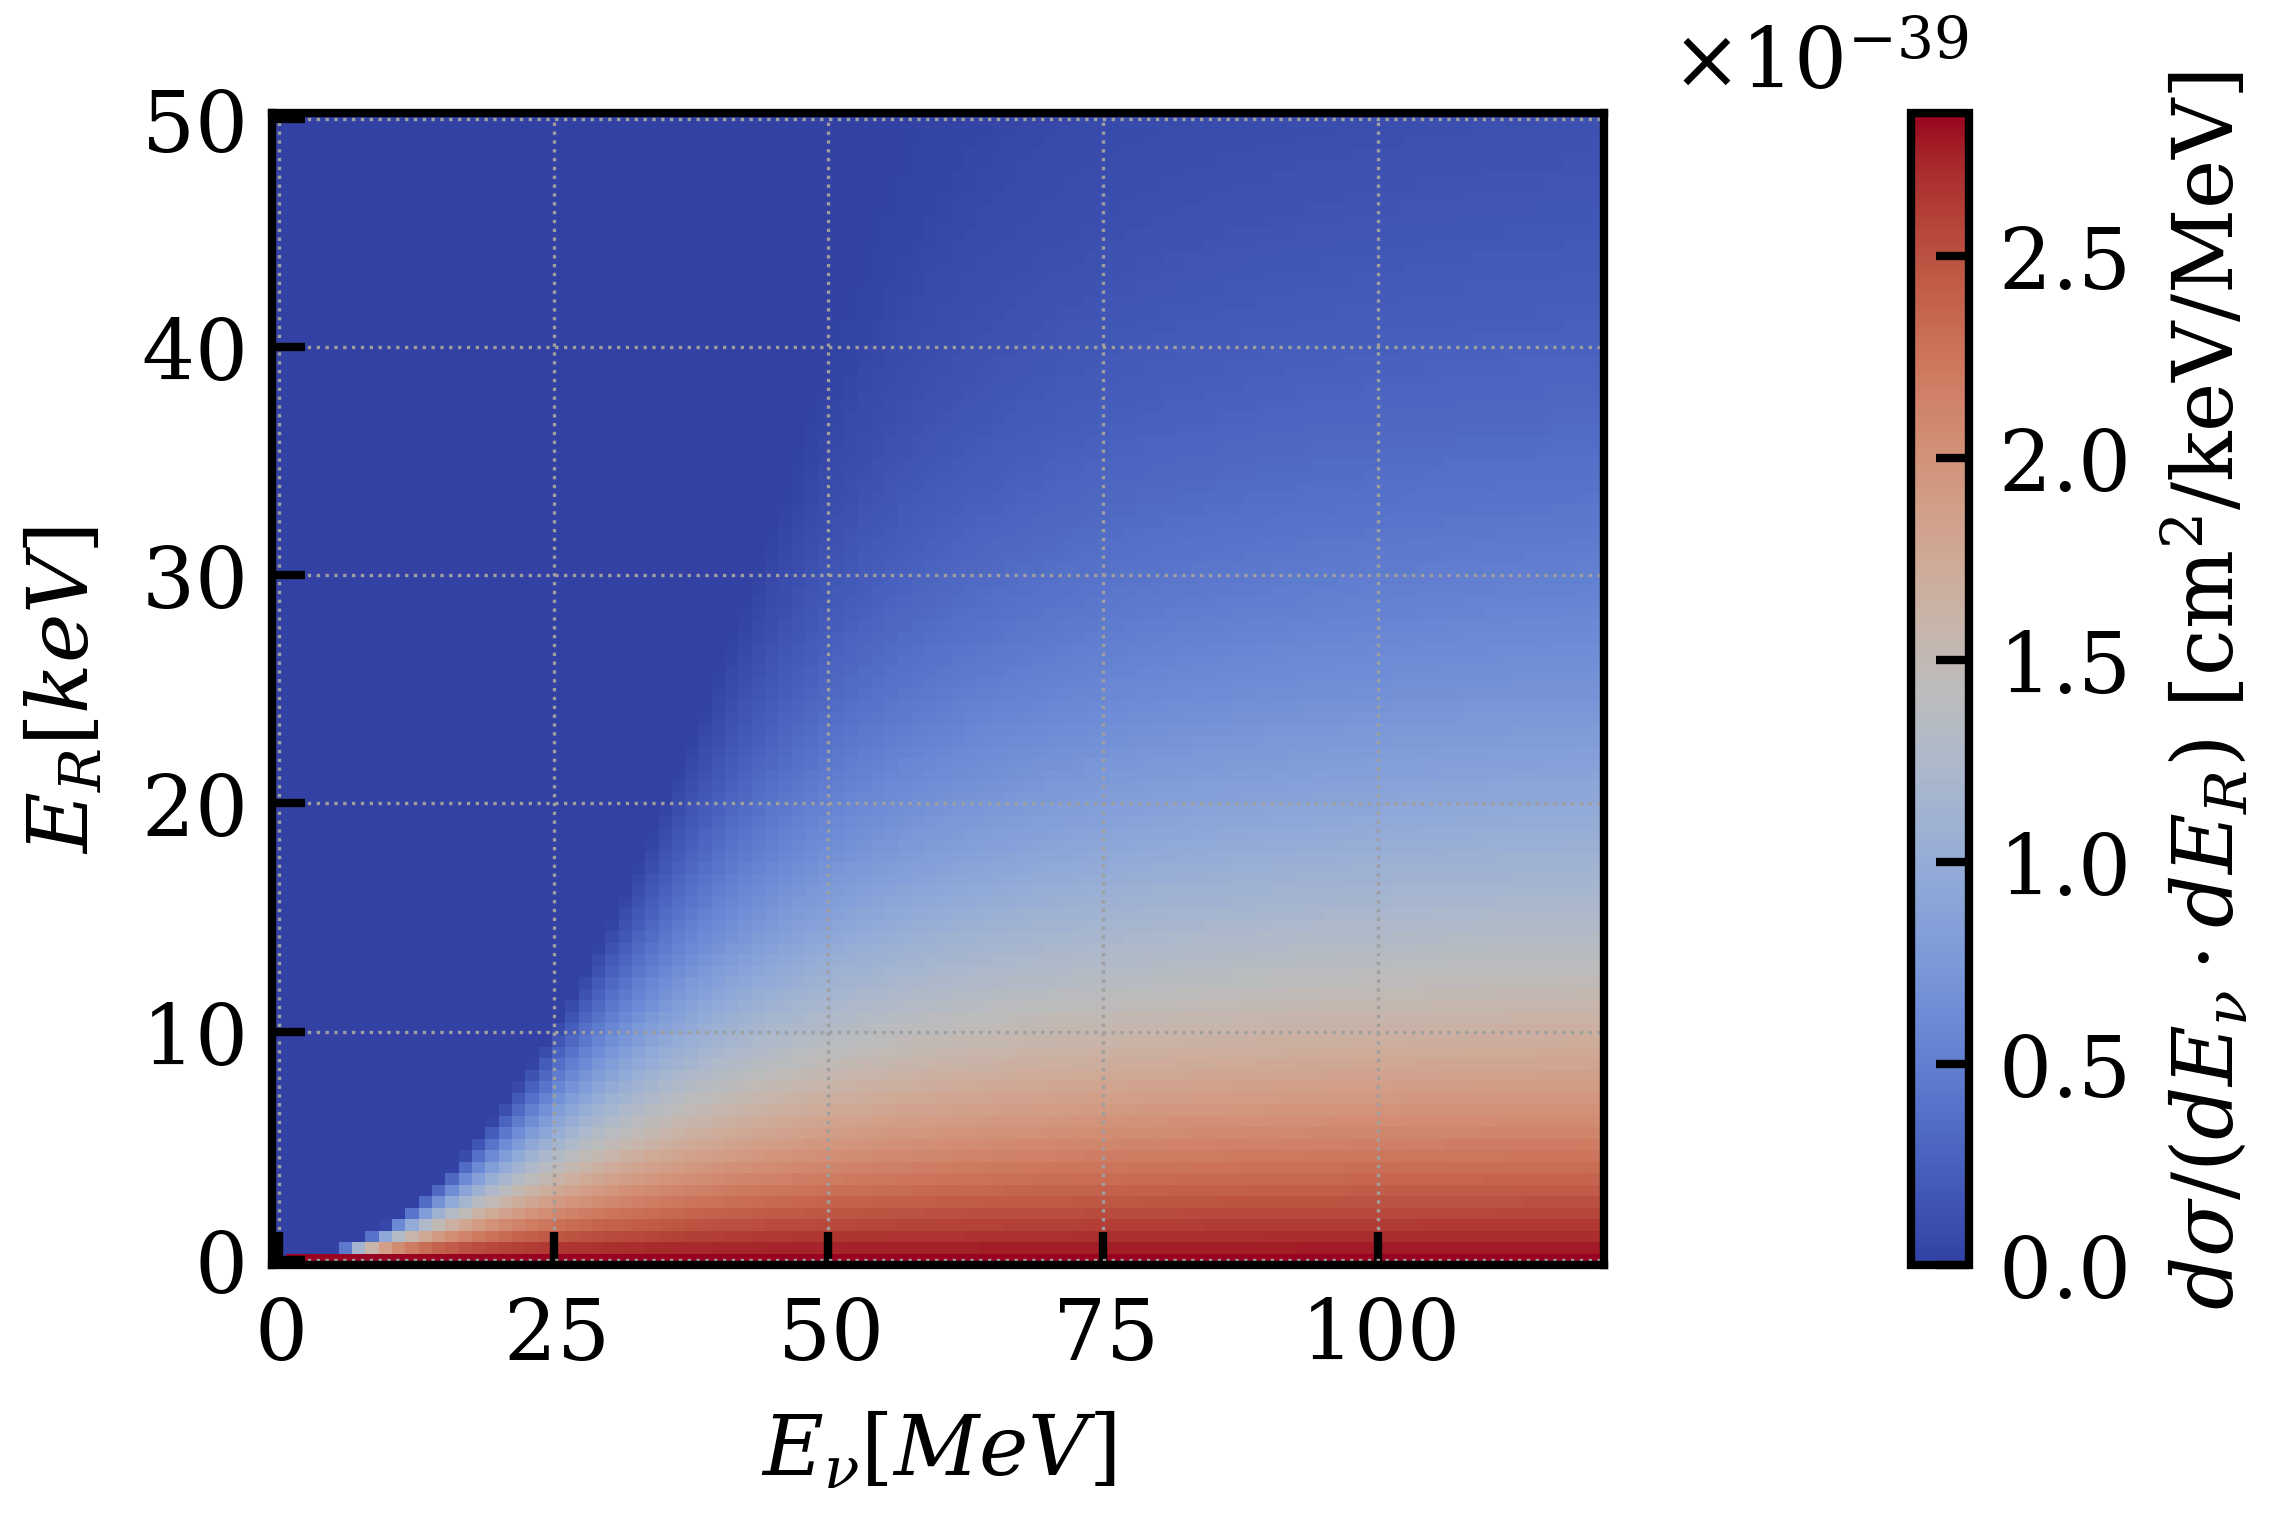
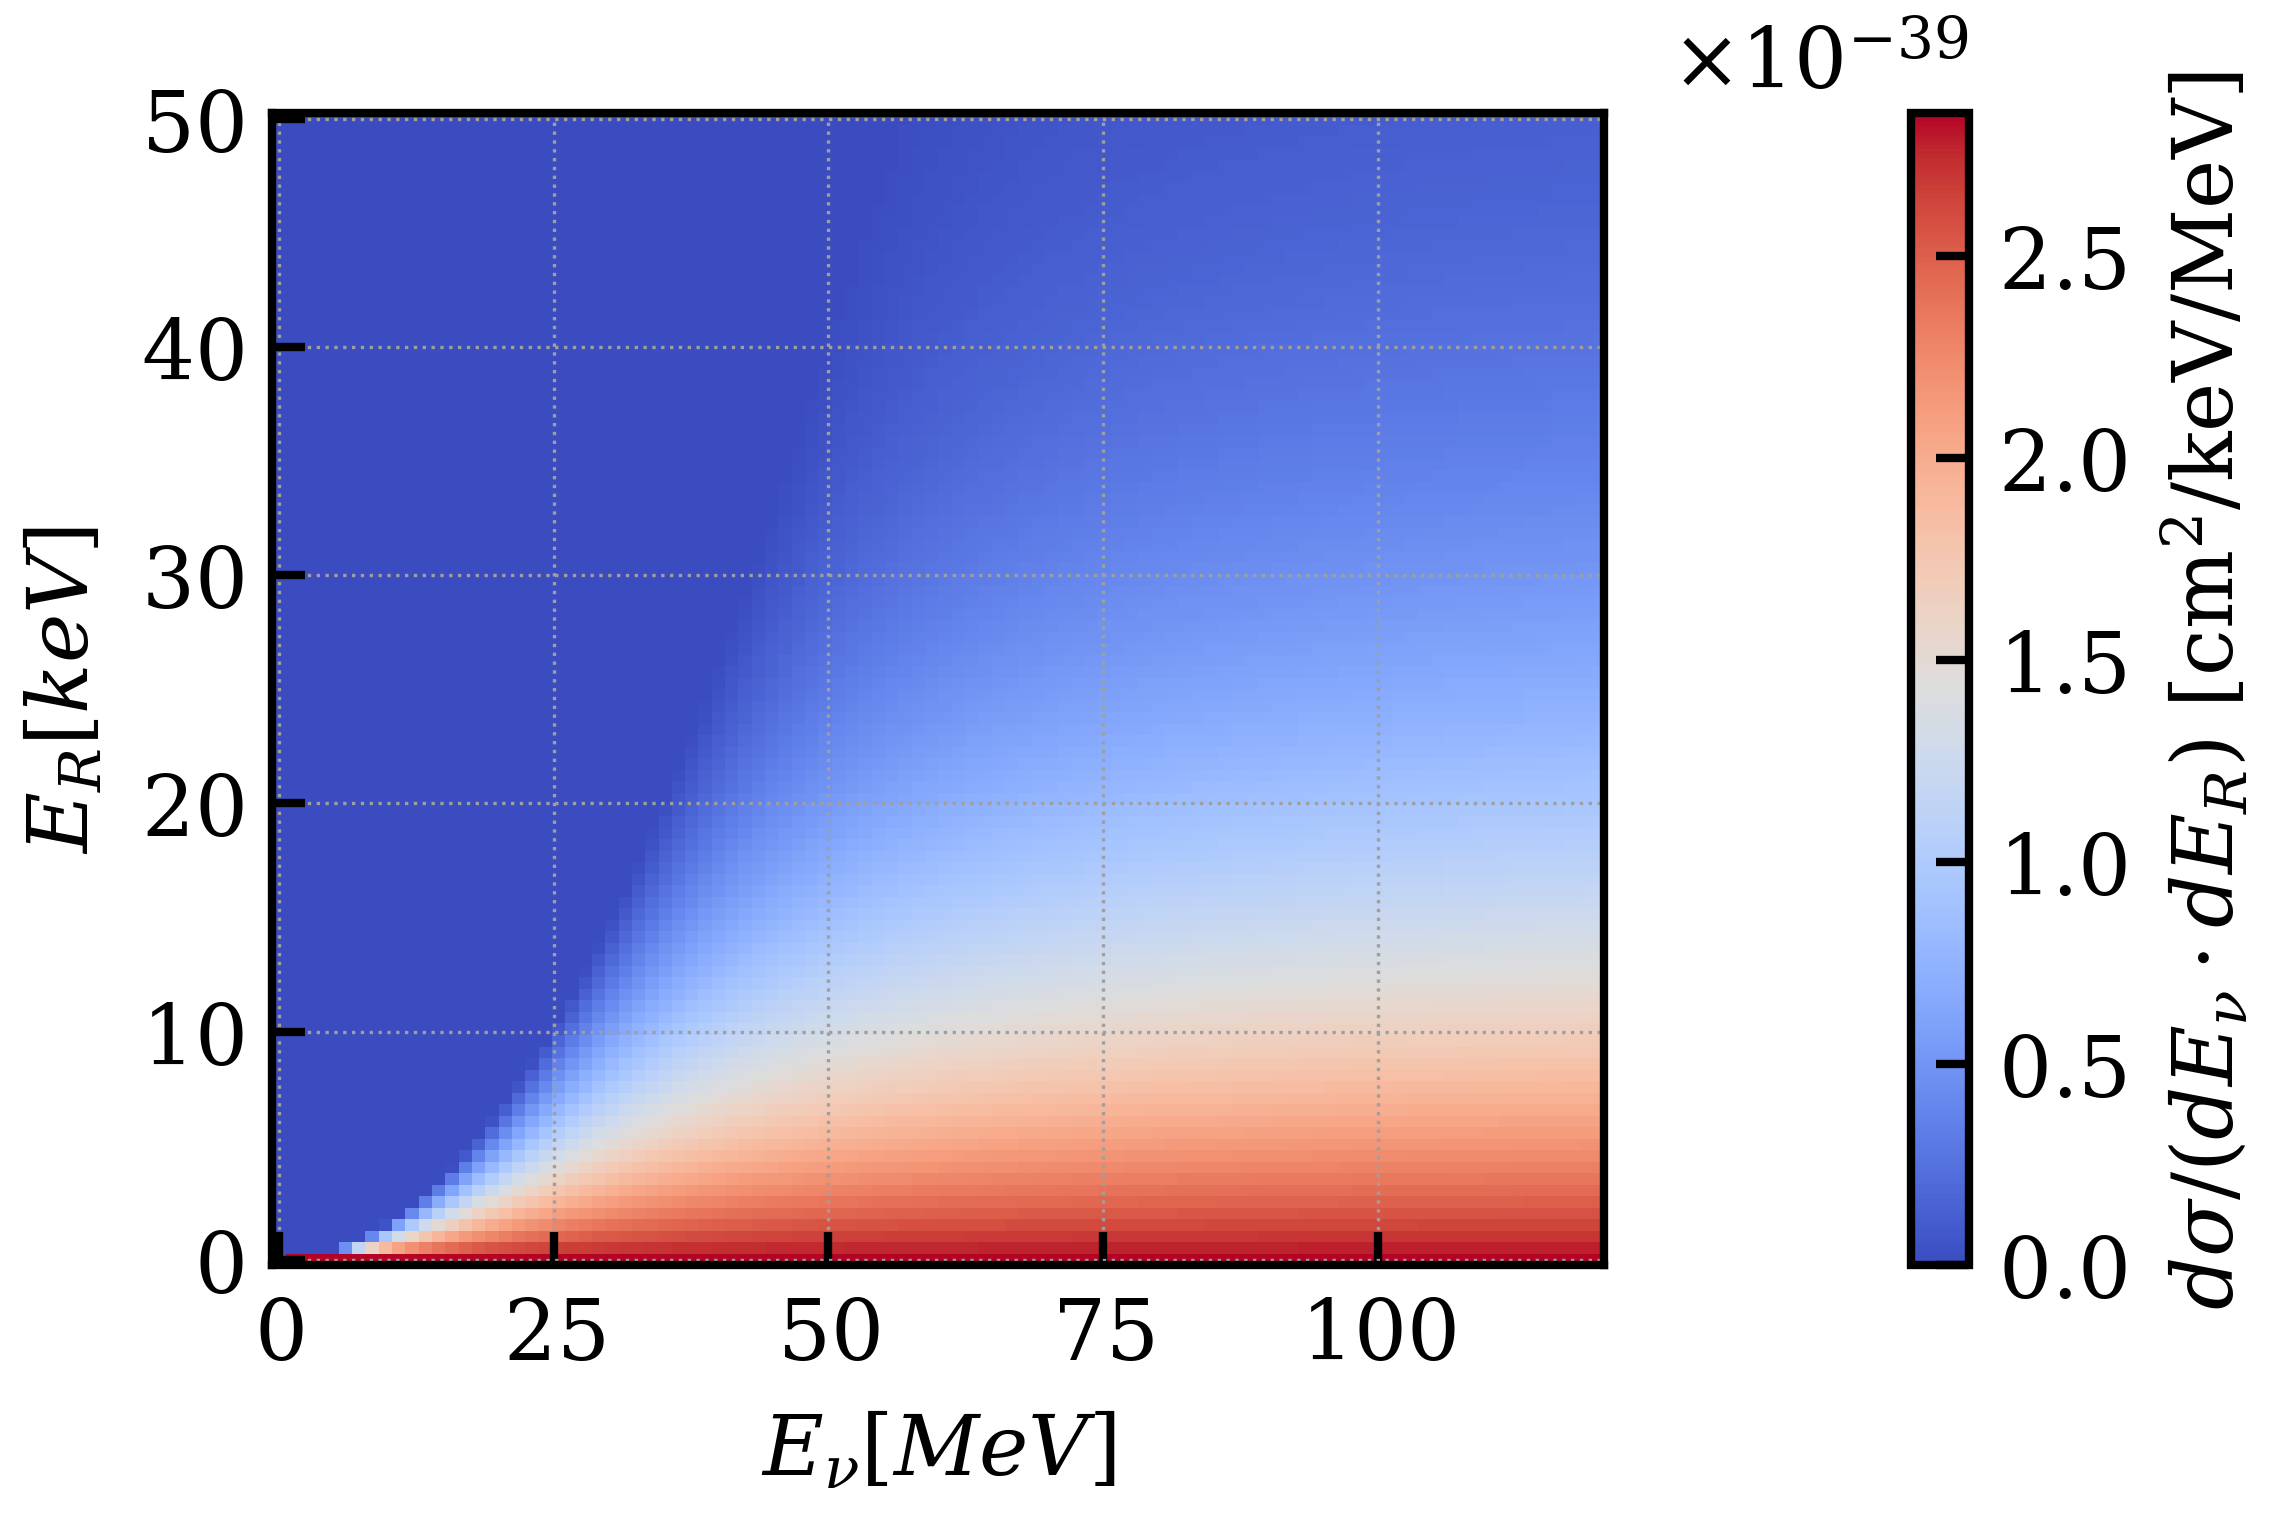
Fix to SN plots.

diff --git a/Supernova/cevns.py b/Supernova/cevns.py
@@ -3,18 +3,9 @@ import numpy as np
 import astropy.units as u
 from multimessenger.supernova.Nucleus import Target
 from multimessenger.supernova.Xenon_Atom import ATOM_TABLE
-from matplotlib.colors import ListedColormap
-from matplotlib.colors import ListedColormap, LogNorm
-
-
-# Get the colormap colors, multiply them with the factor "a", and create new colormap
-a = 0.85
-coolwarm = plt.cm.coolwarm(np.arange(plt.cm.coolwarm.N))
-coolwarm[:,0:3] *= a 
-coolwarm = ListedColormap(coolwarm)
 
 def plot_formfactor():
-    fig, ax = plt.subplots(1,1,figsize = (4,2.7))
+    fig, ax = plt.subplots(1,1,figsize = (3.8,2.6))
     
     xe_isotopes = ['Xe129','Xe131','Xe132','Xe134','Xe136',]
     for xe in xe_isotopes:
@@ -23,12 +14,13 @@ def plot_formfactor():
         formfac = singleXe.form_factor(recoil_en)
 
         
-        ax.plot(recoil_en, formfac**2, label = ATOM_TABLE[xe]['Type'])
+        ax.plot(recoil_en, formfac**2, 
+                label = f"$^{{{ATOM_TABLE[xe]['Type'][2:]}}}${ATOM_TABLE[xe]['Type'][:2]}")
     ax.set_yscale('log')
     ax.set_xlabel('E$_R$ [keV]')
     ax.set_ylabel('$F(q^2)^2$')
     ax.set_xlim(0,200)
-    ax.set_ylim(1e-7, 1)
+    ax.set_ylim(1e-6, 1)
     ax.legend()
     fig.savefig('Figures/form_factor_all_isotopes.pdf')
 
@@ -41,10 +33,10 @@ def plot_cevns_matrix():
     fig, ax = plt.subplots(1,1,figsize = (3.8,2.53))
     matrix = ax.pcolormesh(neutrino_en.value, recoil_en.value, 
                            crosssec.to(u.cm**2/u.keV), norm = 'linear', 
-                    vmin = 0, cmap=coolwarm) #, norm=LogNorm())
+                    vmin = 0, cmap='coolwarm') #, norm=LogNorm())
     fig.colorbar(matrix, label = "$d\sigma/(dE_\\nu \cdot dE_R)$ [cm$^2$/keV/MeV]")
-    ax.set_ylabel('$E_R [keV]$')
-    ax.set_xlabel('$E_\\nu [MeV]$')
+    ax.set_ylabel('$E_R$ [keV]')
+    ax.set_xlabel('$E_\\nu$ [MeV]')
     
     fig.savefig('Figures/cevns_matrix.png')
 

diff --git a/Supernova/luminosity_plot.py b/Supernova/luminosity_plot.py
@@ -19,17 +19,17 @@ def plot_luminosity_curve():
             m27.time, 
             m27.luminosity[Flavor.NU_E], 
             label=Flavor.NU_E.to_tex(),
-            color = 'C0')
+            color = 'C1')
         axs[ax_i].plot(
             m27.time, 
             m27.luminosity[Flavor.NU_E_BAR], 
             label=Flavor.NU_E_BAR.to_tex(),
-            color = 'C1')
+            color = 'C2')
         axs[ax_i].plot(
             m27.time, 
             (m27.luminosity[Flavor.NU_X] + m27.luminosity[Flavor.NU_X_BAR]), 
             label=f'{Flavor.NU_X.to_tex()} + {Flavor.NU_X_BAR.to_tex()}',
-            color = 'C2')
+            color = 'C3')
         axs[ax_i].plot(
             m27.time, 
             (m27.luminosity[Flavor.NU_X] + 
@@ -37,23 +37,23 @@ def plot_luminosity_curve():
             m27.luminosity[Flavor.NU_E] + 
             m27.luminosity[Flavor.NU_E_BAR]), 
             label=f'Total',
-            color = 'C3')
+            color = 'C0')
     for ax_i in range(3,6):
         axs[ax_i].plot(
             m27.time, 
             m27.meanE[Flavor.NU_E],
             label=Flavor.NU_E.to_tex(),
-            color = 'C0')
+            color = 'C1')
         axs[ax_i].plot(
             m27.time, 
             m27.meanE[Flavor.NU_E_BAR], 
             label=Flavor.NU_E_BAR.to_tex(),
-            color = 'C1')
+            color = 'C2')
         axs[ax_i].plot(
             m27.time, 
             m27.meanE[Flavor.NU_X],
             label=f'{Flavor.NU_X.to_tex()}, {Flavor.NU_X_BAR.to_tex()}',
-            color = 'C2')
+            color = 'C3')
 
     axs[0].set_xticklabels([])
     axs[1].set_xticklabels([])

diff --git a/Supernova/significance_distance.py b/Supernova/significance_distance.py
@@ -57,6 +57,11 @@ def plot_significances():
     newbetter_60t = Z0(bkg_rate(60,scale_by='Area')/10 + sn_n_events(d_list,60),bkg_rate(60,scale_by = 'Area')/10)
     newbetter_100t = Z0(bkg_rate(100,scale_by='Area')/10 + sn_n_events(d_list,100),bkg_rate(100,scale_by = 'Area')/10)
     
+    x_3s_nT = np.where(nT < 3)[0][0]
+    x_3s_new_20t = np.where(new_20t < 3)[0][0]
+    x_3s_new_60t = np.where(new_60t < 3)[0][0]
+    x_3s_new_100t = np.where(new_100t < 3)[0][0]
+
     fig, ax = plt.subplots(1,1,figsize = (6,4))
 
     ax.plot(d_list, nT, label = 'XENONnT')
@@ -70,6 +75,10 @@ def plot_significances():
 
     ax.axhline(5, ls = ':', c='grey')#,label = '5$\sigma$')
     ax.axhline(3, ls = ':', c = 'grey')#,label = '3$\sigma$')
+    ax.vlines(d_list[x_3s_nT], ymin = 0, ymax = 3, ls = ':', color = 'grey')
+    ax.vlines(d_list[x_3s_new_20t], ymin = 0, ymax = 3, ls = ':', color = 'grey')
+    ax.vlines(d_list[x_3s_new_60t], ymin = 0, ymax = 3, ls = ':', color = 'grey')
+    ax.vlines(d_list[x_3s_new_100t], ymin = 0, ymax = 3, ls = ':', color = 'grey')
     ax.set_yscale('log')
     ax.minorticks_on()
     ax.set_yticks([1,3,5,10,20],[1,3,5,10,20])

diff --git a/Supernova/data.py b/Supernova/data.py
@@ -7,16 +7,6 @@ from matplotlib.colors import ListedColormap
 from matplotlib.colors import ListedColormap, LogNorm
 import pandas as pd
 
-# Get the colormap colors, multiply them with the factor "a", and create new colormap
-a = 0.85
-coolwarm = plt.cm.coolwarm(np.arange(plt.cm.coolwarm.N))
-coolwarm[:,0:3] *= a 
-coolwarm = ListedColormap(coolwarm)
-
-summer = plt.cm.summer(np.arange(plt.cm.summer.N))
-summer[:,0:3] *= a 
-summer = ListedColormap(summer)
-
 def plot_s2rate():
     spectrums = pd.read_hdf('Data/area_spectrums.h5')
 
